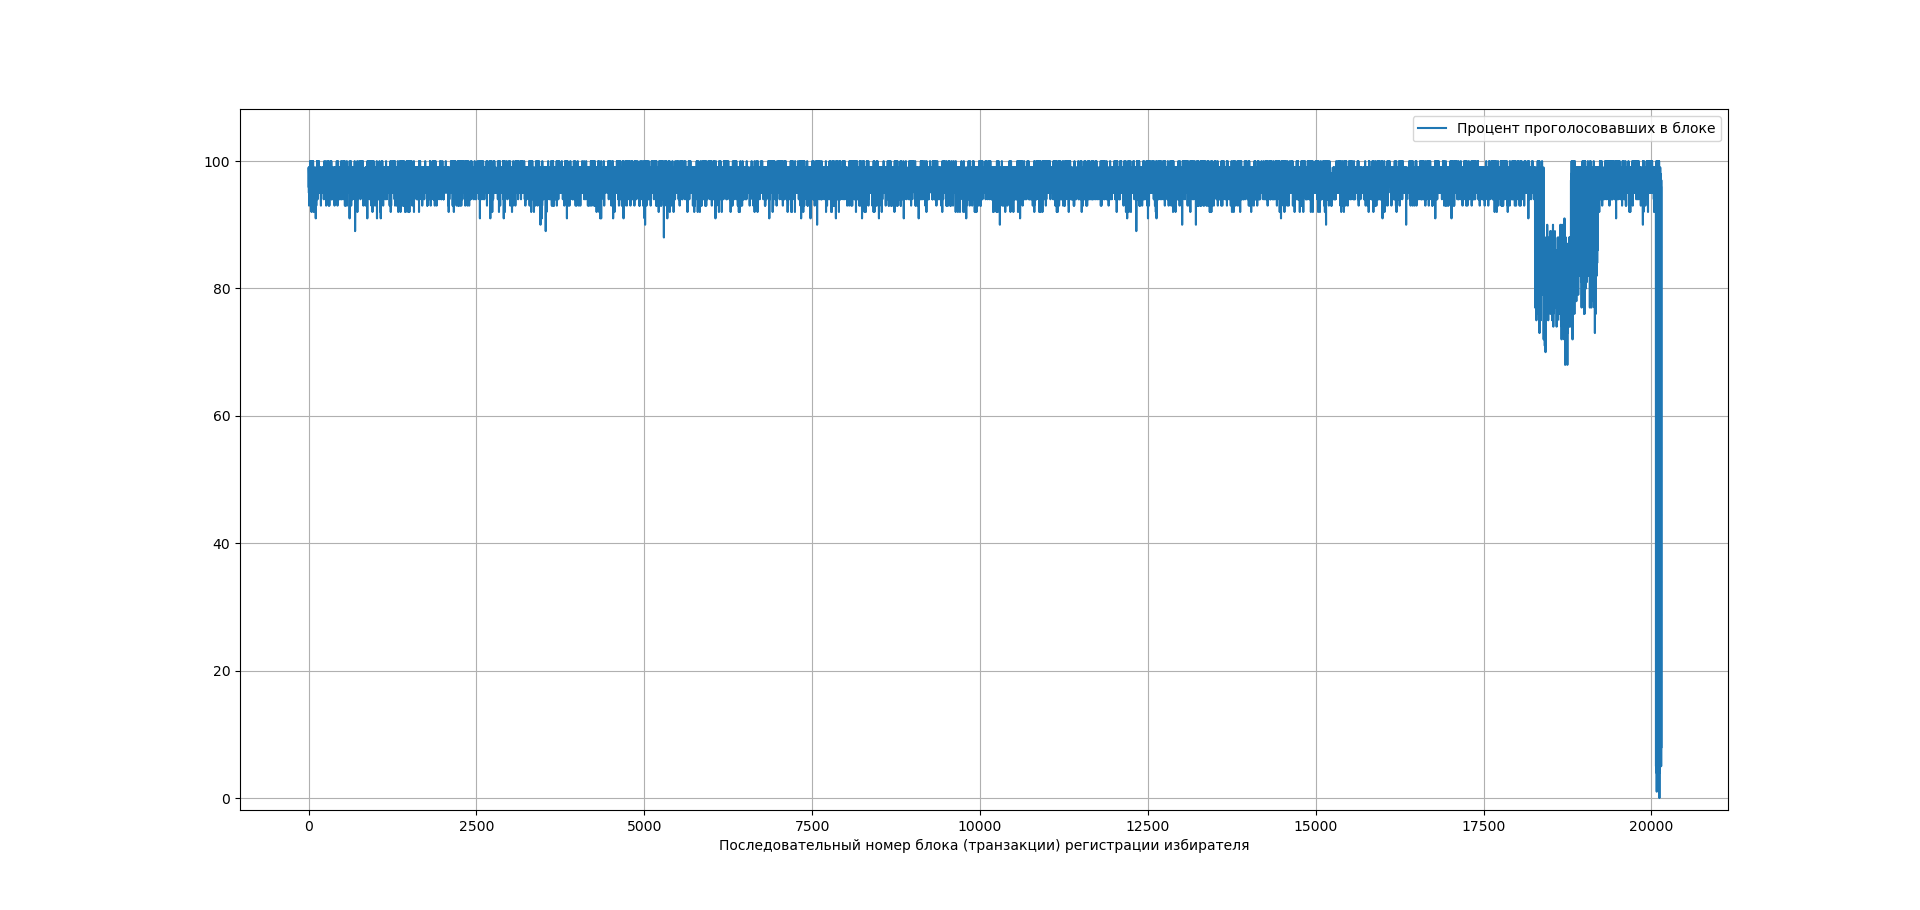
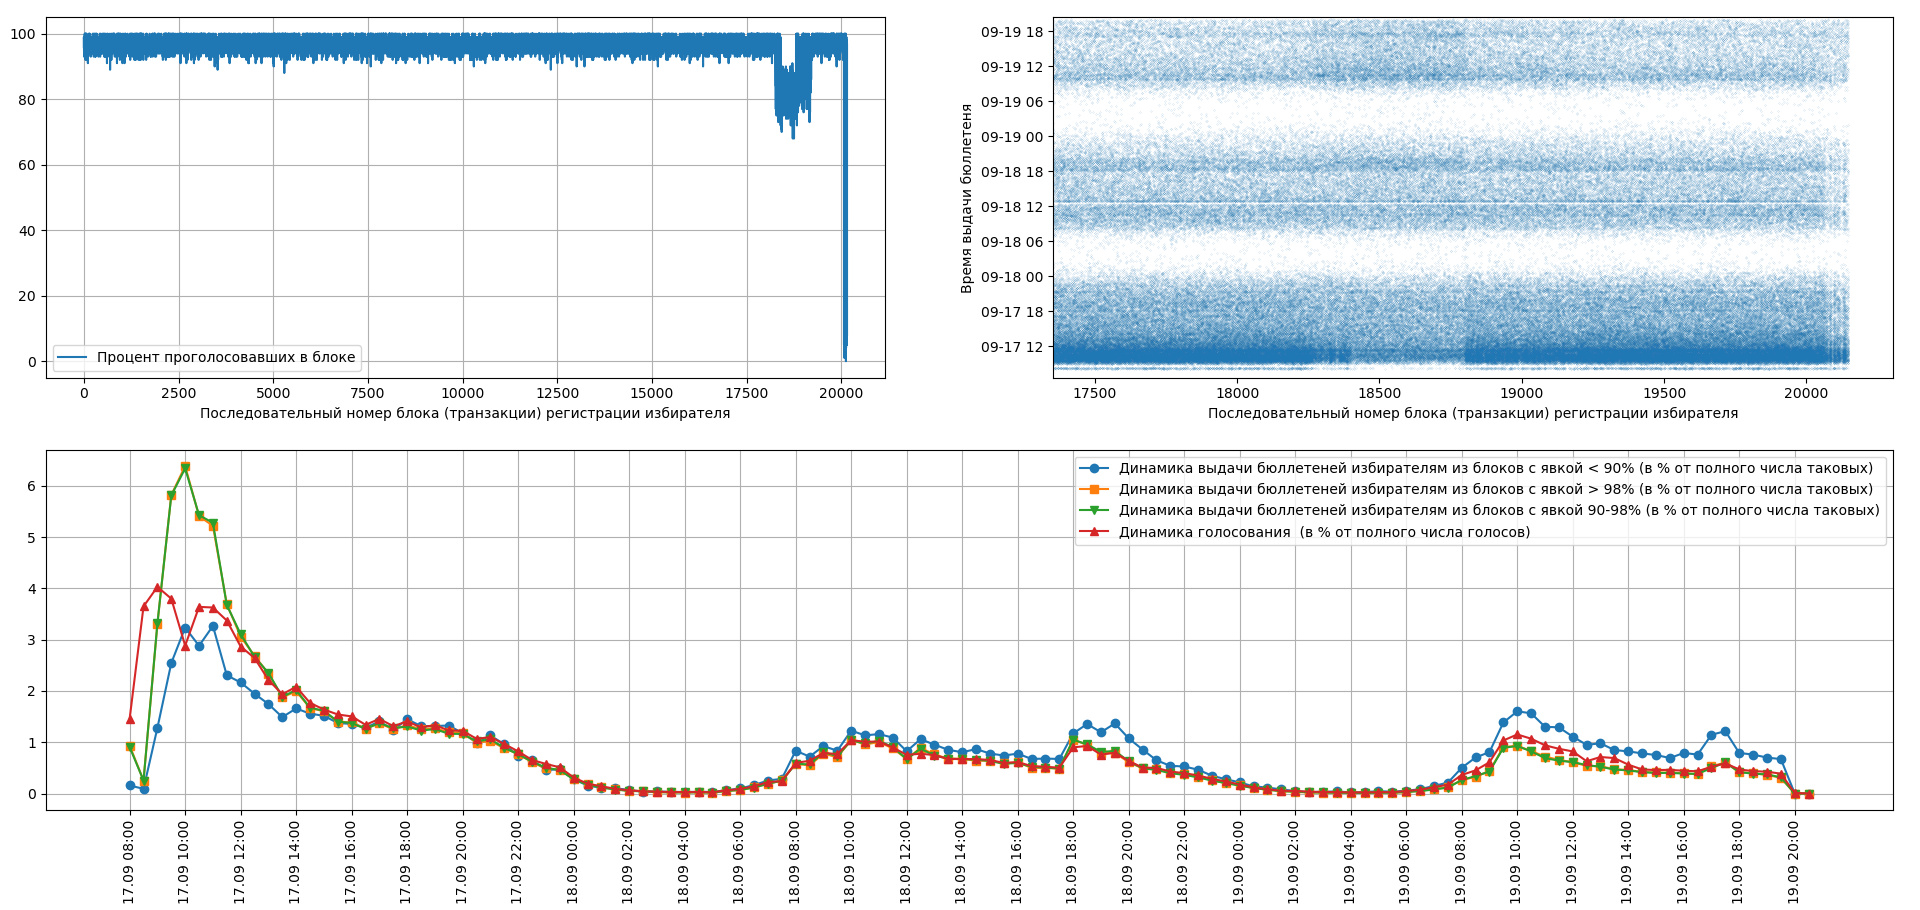
Add reg block vs vote time plots to turnout_plot.py

diff --git a/turnout_plot.py b/turnout_plot.py
@@ -28,25 +28,130 @@ conn = psycopg2.connect(
 
 cur = conn.cursor(cursor_factory = psycopg2.extras.DictCursor)
 
+# Some helper constants, all times are in seconds
+def TimeToSecs(t):
+    return int(time.mktime(t.timetuple()))
+MSK_TZ              = pytz.timezone("Europe/Moscow")
+MSK_START_TIME      = datetime(2021, 9, 17, 8, 0, 0)
+UNIXTIME_MSK_START  = TimeToSecs(datetime(2021, 9, 17, 8, 0, 0, tzinfo=MSK_TZ))
+UNIXTIME_MSK_END    = TimeToSecs(datetime(2021, 9, 19, 21, 0, 0, tzinfo=MSK_TZ))
+BIN_TIME            = 30*60 
+RESULT_BINS         = (UNIXTIME_MSK_END-UNIXTIME_MSK_START) // BIN_TIME
+GRAPH_TICK_TIME     = 3600 * 2
+PREREVOTE_TIME      = datetime(2021, 9, 17, 9, 0, 0, tzinfo=MSK_TZ)
+LOW_TURNOUT_VAL     = 90
+HIGH_TURNOUT_VAL    = 99
+
+# Some helper functions
+def TimeToSecondsFromStart(t):
+    unixtime_msk = TimeToSecs(t)
+    return unixtime_msk - UNIXTIME_MSK_START
+
+def TimeToBin(t):
+    mt = t.astimezone(MSK_TZ)   # to correct if DB has non MSK time
+    return TimeToSecondsFromStart(mt) // BIN_TIME
+
+def BinToTime(b):
+    return datetime.fromtimestamp(b + UNIXTIME_MSK_START)
+    
+def GenerateTicks():
+    x = range(0, RESULT_BINS, GRAPH_TICK_TIME // BIN_TIME)
+    labels = []
+    for i in x:
+        labels.append(BinToTime(i * BIN_TIME).strftime('%d.%m %H:%M'))
+    return [x,labels]
+
 # Cache all issued ballots in set
-cur.execute("select payload -> 'voter_id' from transactions where method_id=4")
-voter_ids_with_ballots = set([r[0] for r in cur.fetchall()])
+prerevote_issued = 0
+prerevote_voted = 0
+cur.execute("select payload->'voter_id' from transactions where method_id=4")
+voter_ids_with_ballots = [r[0] for r in cur.fetchall()]
+cur.execute("select datetime from transactions where method_id=4")
+ballot_times_list = [r['datetime'] for r in cur.fetchall()]
+for t in ballot_times_list:
+    if t < PREREVOTE_TIME:
+        prerevote_issued += 1
+ballots_times = dict(zip(voter_ids_with_ballots, ballot_times_list))
+voter_ids_with_ballots_set = set(voter_ids_with_ballots)
 
 # Perform database searches for all registrations
 cur.execute("select payload from transactions where method_id=1")
+
 total_blocks = cur.rowcount
-binned_results = [0] * total_blocks
+turnout = [0] * total_blocks
+forplot_x = []
+forplot_y = []
+low_turnout_bins = [0] * RESULT_BINS
+high_turnout_bins = [0] * RESULT_BINS
+norm_turnout_bins = [0] * RESULT_BINS
+votes_time = [0] * RESULT_BINS
+
 for i,row in enumerate(cur):
     voters = row[0]["voters"]
+    voters_voted = []
     for v in voters:
-        if v in voter_ids_with_ballots:
-            binned_results[i] += 1
+        if v in voter_ids_with_ballots_set:
+            voters_voted.append(v)
+            turnout[i] += 1
+            forplot_x.append(i)
+            forplot_y.append(ballots_times[v])
+    for v in voters_voted:
+        if turnout[i] < LOW_TURNOUT_VAL:
+            low_turnout_bins[TimeToBin(ballots_times[v])] += 1
+        elif (turnout[i] >HIGH_TURNOUT_VAL):
+            high_turnout_bins[TimeToBin(ballots_times[v])] += 1
+        else:
+            norm_turnout_bins[TimeToBin(ballots_times[v])] += 1
 
-# Build pretty plot
-plt.plot(binned_results)
-plt.grid()
-plt.legend(["Процент проголосовавших в блоке"])
-plt.xlabel("Последовательный номер блока (транзакции) регистрации избирателя")
+# Perform database searches for all votes
+cur.execute("select datetime from transactions where method_id=6")
+for i,row in enumerate(cur):
+    votes_time[TimeToBin(row[0])] += 1
+    if row[0] < PREREVOTE_TIME:
+        prerevote_voted += 1
+
+print("Время до возможности переголосования:", PREREVOTE_TIME.strftime('%d.%m %H:%M'), "Выдано бюллетеней:", prerevote_issued, "Голосов:", prerevote_voted)    
+
+# Normalize
+low_sum = sum(low_turnout_bins)
+high_sum = sum(high_turnout_bins)
+norm_sum = sum(norm_turnout_bins)
+vote_sum = sum(votes_time)
+for i in range(RESULT_BINS):
+    low_turnout_bins[i] *=  100 / low_sum
+    high_turnout_bins[i] *= 100 / high_sum
+    norm_turnout_bins[i] *= 100 / norm_sum
+    votes_time[i] *= 100 / vote_sum
+
+# Build several plots
+axs = [plt.subplot2grid((2, 2), (1, 0), colspan=2),plt.subplot2grid((2, 2),(0, 0)), plt.subplot2grid((2, 2),(0, 1))]
+
+# Create issue ballots & vote times plot
+markers = itertools.cycle(['o', 's', 'v', '^', 'p', '*'])
+axs[0].plot(low_turnout_bins, marker=next(markers))
+axs[0].plot(high_turnout_bins, marker=next(markers))
+axs[0].plot(norm_turnout_bins, marker=next(markers))
+axs[0].plot(votes_time, marker=next(markers))
+ticks = GenerateTicks()
+axs[0].set_xticks(ticks[0])
+axs[0].set_xticklabels(ticks[1], rotation=90)
+axs[0].grid()
+axs[0].legend(["Динамика выдачи бюллетеней избирателям из блоков с явкой < "+str(LOW_TURNOUT_VAL)+"% (в % от полного числа таковых)", \
+    "Динамика выдачи бюллетеней избирателям из блоков с явкой > "+str(HIGH_TURNOUT_VAL)+"% (в % от полного числа таковых)", \
+    "Динамика выдачи бюллетеней избирателям из блоков с явкой "+str(LOW_TURNOUT_VAL)+"-"+str(HIGH_TURNOUT_VAL)+"% (в % от полного числа таковых)", \
+    "Динамика голосования  (в % от полного числа голосов)"])
+
+# Create 
+axs[1].plot(turnout)
+axs[1].grid()
+axs[1].legend(["Процент проголосовавших в блоке"])
+axs[1].set_xlabel("Последовательный номер блока (транзакции) регистрации избирателя")
+
+# Create issue ballot time scatter plot
+axs[2].scatter(forplot_x, forplot_y, 0.005)
+axs[2].set_xlabel("Последовательный номер блока (транзакции) регистрации избирателя")
+axs[2].set_ylabel("Время выдачи бюллетеня")
+
     
 # Show window with plot    
 plt.show()

diff --git a/README.md b/README.md
@@ -67,11 +67,11 @@ cd ..
 ./time_plot.py -h
 ```
 
-Для построения графика явки в зависимости от номера блока регистрации избирателей:
+Для построения графика явки в зависимости от номера блока регистрации избирателей используется другой скрипт:
 ```console
 ./turnout_plot.py --dbname v2021_om
 ```
-, где v2021_om - название базы данных, других параметров не требуется.
+, где v2021_om - название базы данных, других параметров не требуется. Скрипт построит три графика - распределение явки по блокам регистрации избирателей, распределение времени выдачи бюллетеня по блокам и распределение времени выдачи бюллетеня в зависимости от явки.
 
 ### Выбор данных для построения графика распределения по времени
 
